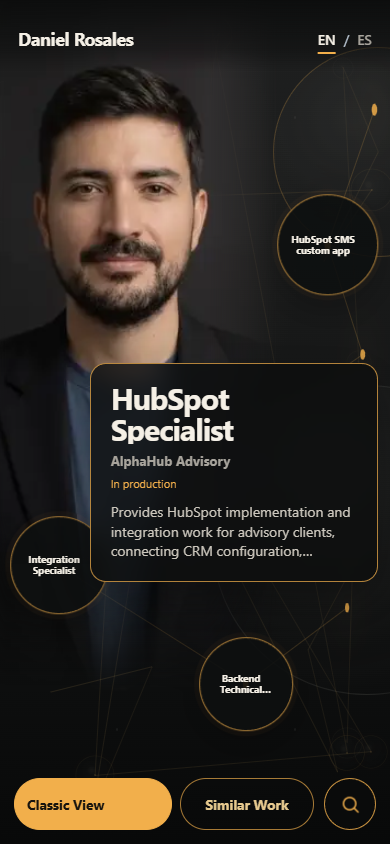
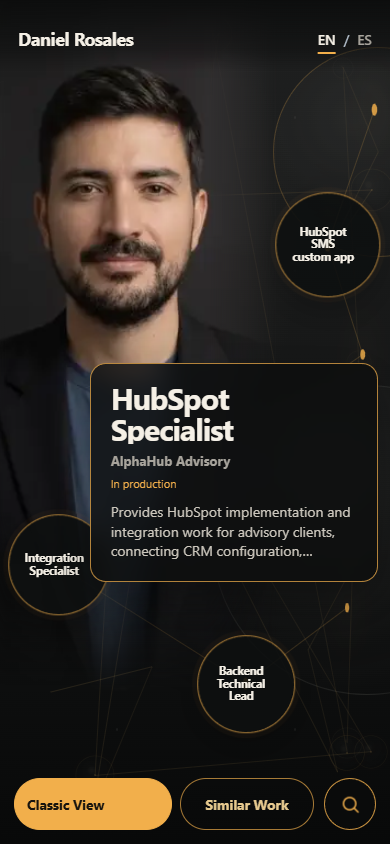
Increase constellation preview typography

diff --git a/src/styles/global.css b/src/styles/global.css
@@ -521,13 +521,13 @@ footer { max-width: 1536px; min-height: 64px; margin: 22px auto 0; padding: 0 cl
   display: -webkit-box;
   -webkit-box-orient: vertical;
   -webkit-line-clamp: 3;
-  font-size: clamp(11px, 11cqi, 15px);
-  line-height: 1.16;
+  font-size: clamp(12.5px, 12.5cqi, 17px);
+  line-height: 1.13;
 }
 .experience-shell .claim-node--text-compact { gap: 6px; padding: 16px; }
-.experience-shell .claim-node--text-compact strong { font-size: clamp(11px, 10.5cqi, 14.5px); line-height: 1.14; }
+.experience-shell .claim-node--text-compact strong { font-size: clamp(12px, 11.5cqi, 16px); line-height: 1.12; }
 .experience-shell .claim-node--text-dense { gap: 5px; padding: 15px; }
-.experience-shell .claim-node--text-dense strong { font-size: clamp(10px, 9.5cqi, 13.5px); line-height: 1.12; }
+.experience-shell .claim-node--text-dense strong { font-size: clamp(11px, 10.5cqi, 15px); line-height: 1.1; }
 .experience-focus {
   position: absolute;
   left: 60%;
@@ -879,7 +879,7 @@ footer { max-width: 1536px; min-height: 64px; margin: 22px auto 0; padding: 0 cl
   .experience-shell .claim-node:nth-child(1) { left: 84%; top: 29%; }
   .experience-shell .claim-node:nth-child(2) { left: 15%; top: 67%; width: clamp(80px, 25vw, 104px); }
   .experience-shell .claim-node:nth-child(3) { left: 63%; top: 81%; width: clamp(76px, 24vw, 98px); }
-  .experience-shell .claim-node strong { -webkit-line-clamp: 2; font-size: clamp(10px, 11.5cqi, 14px); line-height: 1.12; }
+  .experience-shell .claim-node strong { -webkit-line-clamp: 3; font-size: clamp(11.5px, 12.5cqi, 15.5px); line-height: 1.08; }
   .experience-shell .claim-node--initial { animation-name: mobile-node-arrival; }
   .experience-shell .claim-node::after { content: none; }
   .experience-shell .claim-node::before { content: none; }
@@ -933,6 +933,16 @@ footer { max-width: 1536px; min-height: 64px; margin: 22px auto 0; padding: 0 cl
 @keyframes mobile-node-promote { to { opacity: 1; transform: translate(-50%, -50%) scale(1.16); } }
 @keyframes mobile-feature-depart { to { opacity: .08; transform: scale(.82); } }
 @keyframes mobile-feature-arrival { from { opacity: .12; transform: scale(.82); } to { opacity: 1; transform: scale(1); } }
+
+@media (min-width: 281px) and (max-width: 700px) {
+  .experience-shell .claim-node, .experience-shell .claim-node:hover, .experience-shell .claim-node:focus-visible { width: clamp(94px, 27vw, 112px); }
+  .experience-shell .claim-node:nth-child(2) { width: clamp(94px, 26vw, 108px); }
+  .experience-shell .claim-node:nth-child(3) { width: clamp(92px, 25vw, 102px); }
+}
+
+@media (max-width: 280px) {
+  .experience-shell .claim-node strong { font-size: clamp(10px, 12cqi, 11.5px); }
+}
 
 @media (max-width: 330px) {
   .constellation-header { padding-inline: 12px; }

diff --git a/tests/quality-contract.test.ts b/tests/quality-contract.test.ts
@@ -62,6 +62,9 @@ test("the constellation preloads semantic reserve layers with a quiet mobile pre
   assert.match(styles, /width: clamp\(82px, 26vw, 108px\)/);
   assert.match(styles, /width: clamp\(80px, 25vw, 104px\)/);
   assert.match(styles, /width: clamp\(76px, 24vw, 98px\)/);
+  assert.match(styles, /font-size: clamp\(12\.5px, 12\.5cqi, 17px\)/);
+  assert.match(styles, /font-size: clamp\(11\.5px, 12\.5cqi, 15\.5px\)/);
+  assert.match(styles, /width: clamp\(94px, 27vw, 112px\)/);
   assert.match(styles, /-webkit-line-clamp: 3/);
   assert.match(styles, /claim-detail h2 \{ -webkit-line-clamp: 2/);
   assert.match(styles, /claim-detail--dense/);

diff --git a/design-qa.md b/design-qa.md
@@ -18,7 +18,7 @@ The normalized annotated source and revised implementation were inspected togeth
 - Focus panel: the revised surface is wider and taller, carries a larger title, preserves organization and focused lifecycle state, and allows a three-line summary. It is now the strongest information object rather than a small overlay.
 - Avatar and face: the portrait is scaled to 90% and shifted slightly left/up. The face remains unobstructed at 390 x 844 and 320 x 568 while the card occupies the torso.
 - Active constellation: three title-only circles alternate from upper-right to left-middle to lower-right. One straight-segment SVG polyline connects the sequence and includes illuminated joints; it is decorative and does not alter graph semantics.
-- Preview readability: mobile circles now scale from 76-108px according to their hierarchy, tablet circles use a 118px target, and desktop/wide circles scale from 126-168px. Compact and dense labels gained proportional padding and type size without exposing lifecycle commentary.
+- Preview readability: mobile circles now use a 92-112px phone range, tablet circles use a 118px target, and desktop/wide circles scale from 126-168px. Preview type now scales from 11.5-15.5px on phones and 11-17px on larger displays; mobile titles may use three lines so the larger type does not force premature truncation.
 - Controls: the bottom dock remains fully visible and separate from the animated focus panel at both tested phone sizes.
 
 ## Required fidelity surfaces
@@ -44,6 +44,9 @@ The normalized annotated source and revised implementation were inspected togeth
 4. Preview scale pass: P2 side-node titles were technically bounded but unnecessarily small on both phones and wide screens.
    - Fix: raised the responsive circle sizes and compact/dense label scales across mobile, tablet, desktop, and wide breakpoints; moved the wide west slot 1.5 percentage points outward to preserve the avatar boundary.
    - Post-fix evidence: `mobile-space-usage-comparison.png` and `preview-node-scale-wide.png` show larger readable previews; the browser matrix reports no horizontal overflow, label overflow, or wide-avatar collision.
+5. Preview typography pass: P2 preview labels still read too cautiously inside the enlarged circles, while a first large-type attempt split long words at 320px.
+   - Fix: increased standard, compact, and dense preview typography; allowed three mobile lines; and added a 92-112px small-phone circle floor so `Integration Specialist` and `Backend Technical Lead` remain whole-word readable. A separate <=280px fallback preserves the bounded ultra-compact layout.
+   - Post-fix evidence: the final 320 x 568, 390 x 844, 1440 x 1024, and 2572 x 1233 captures show visibly larger labels with no reported label overflow, horizontal overflow, or avatar collision. English and Spanish long-label checks pass.
 
 ## Browser verification
 
@@ -52,6 +55,6 @@ The normalized annotated source and revised implementation were inspected togeth
 - Console and page errors: none.
 - Horizontal overflow and node-label overflow: none.
 - External runtime requests: none.
-- Remaining P3: very long mobile preview titles still truncate to two lines by design; the larger circle/type treatment improves scanability, while the full title remains available to assistive technology and through the element title.
+- Remaining P3: very long preview titles still truncate after three lines by design; the full title remains available to assistive technology and through the element title.
 
 final result: passed
